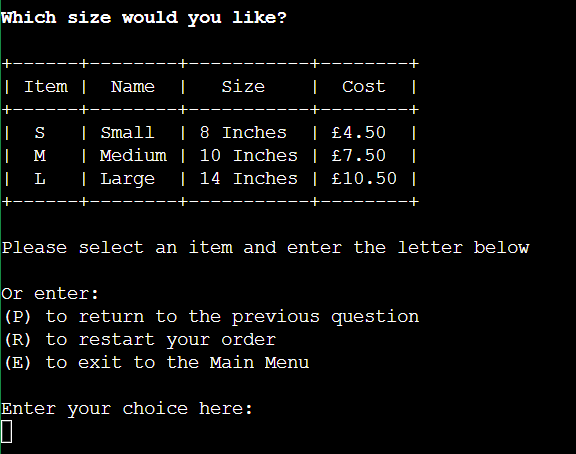
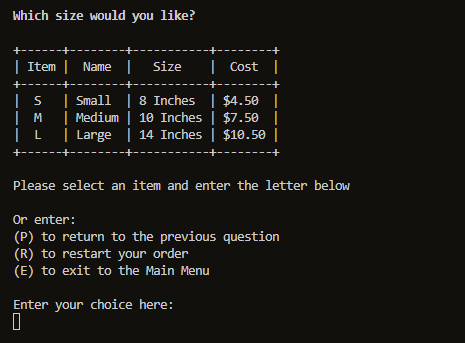
Updates to README file, small change to number within HTML Footer text, and changes to execution order of functions when customer chooses to return to a previous question

diff --git a/run.py b/run.py
@@ -50,21 +50,20 @@ def get_customer_name():
             Print statement confirming input is valid
             Name (str): used within place_order()
     """
+    console.print("What would you like to do next?\n", style="bold")
+    print("1. Continue to place your order")
+    print("2. Exit to Main Menu\n")
+    print("Please select an option by entering either 1 or 2\n")
     #  While loop to provide sub-menu options
     #  If not valid, error message asks the user to try again
     while True:
-        console.print("What would you like to do"
-                      " next?\n", style="bold")
-        print("1. Continue to place your order")
-        print("2. Exit to Main Menu\n")
-        print("Please select an option by entering either 1 or 2\n")
         selection = input("Enter your choice here:\n")
         if selection == "1":
             break
         elif selection == "2":
             main()
         else:
-            print("Invalid choice, please enter a number between 1-3")
+            print("\nInvalid choice, please enter a number between 1-3\n")
             continue
     #  If option 1, While loop to request users details
     #  If not valid, error message asks the user to try again
@@ -90,6 +89,9 @@ def get_customer_number():
             Print statement confirming input is valid
             telnum (str): used within place_order()
     """
+    print("Please provide a mobile phone number, that starts with 07"
+          " and is 11 digits\n")
+
     def validate_mobile(telnum):
         """
         Validates user contact phone number.
@@ -104,14 +106,12 @@ def get_customer_number():
     #  While loop to request user inputs valid contact phone number
     #  If not valid, error message asks the user to try again
     while True:
-        print("Please provide a mobile phone number, that starts with a zero"
-              " and is 11 digits\n")
         telnum = input("Enter your number here:\n")
         if validate_mobile(telnum):
-            print(f"Thanks, we will use {telnum} to contact you if"
+            print(f"\nThanks, we will use {telnum} to contact you if"
                   " there are any issues.\n")
         else:
-            print("Invalid number. 11 digits required, starting with 0,"
+            print("\nInvalid number. 11 digits required, starting with 0,"
                   " please try again\n")
             continue
         return telnum
@@ -236,31 +236,31 @@ def get_quantity():
         Returns:
             qty(int): used within place_order()
     """
+    console.print("How many would you like?\n", style="bold")
+    console.print("Please enter a quantity between 1-6 below\n"
+                  "\nOr enter:\n"
+                  "(P) to return to the previous question\n"
+                  "(R) to restart your order\n"
+                  "(E) to exit to the Main Menu\n")
     #  While loop to request user inputs valid quantity between 1-6
     #  Provides opportunity for the user to restart order or exit to Main Menu
     #  If not valid, error message asks the user to try again
     while True:
-        console.print("How many would you like?\n", style="bold")
-        console.print("Please enter a quantity between 1-6 below\n"
-                      "\nOr enter:\n"
-                      "(P) to return to the previous question\n"
-                      "(R) to restart your order\n"
-                      "(E) to exit to the Main Menu\n")
         qty = input("Enter your choice here:\n")
-        if qty.isnumeric() in range(1, 7, 1):
+        if qty in range(1, 6, 1):
             return int(qty)
         elif qty.upper() == "P":
-            clear()
-            get_size()
-        elif qty.upper() == "R":
             break
+        elif qty.upper() == "R":
+            place_order()
         elif qty.upper() == "E":
             main()
         else:
             print("Invalid choice, please enter a number between 1-6\n"
                   "or letters R or E\n")
             continue
-    place_order()
+    clear()
+    get_size()
 
 
 def get_cost(cust_size, qty):
@@ -275,14 +275,14 @@ def get_cost(cust_size, qty):
             f string with calculated cost and GBP symbol
             Used within place_order()
     """
-    cost = 0
+    cost = 0.00
     if cust_size == ("Small"):
         cost = qty * 4.50
     elif cust_size == ("Medium"):
         cost = qty * 7.50
     elif cust_size == ("Large"):
         cost = qty * 10.50
-    return f"{cost}"
+    return cost
 
 
 def get_time():
@@ -428,7 +428,7 @@ def place_order():
 
     #  Confirm order back to the customer and provide order reference
     console.print(f"Thanks {name.capitalize()}, you are ordering;\n"
-                  f"{qty} {cust_size} {pizza} for {cost} :pizza:\n"
+                  f"{qty} {cust_size} {pizza} for £{cost} :pizza:\n"
                   f"Your reference for the order is {order_ref}\n")
     #  While loop to request user confirms order is complete
     #  If not complete, user has options to order more items
@@ -480,7 +480,7 @@ def add_pizza():
     qty = get_quantity()
     #  Calculates and returns the cost of the order
     cost = get_cost(cust_size, qty)
-    cust_order.extend(pizza, cust_size, qty, cost)
+    cust_order(pizza, cust_size, qty, cost)
     return cust_order
 
 

diff --git a/README.md b/README.md
@@ -57,7 +57,7 @@ There are additional benefits of moving to a digitally driven ordering system; i
     * I want to understand how long it will take to cook my order, so that I can plan my journey time.
     * I want to learn which pizzas are available, so I can choose my preferred option.
     * I want to learn which sizes are available, so I can choose the appropriate size for my appetite.
-    * I want to order multiple pizzas, so I can more food to more people.
+    * I want to order multiple pizzas, so I can provide food to more people.
     * I want to be able to amend the order before committing, so that if a mistake is made I don't have to restart the order.
 * As the owner... 
     * I want to reduce the time spent on the phone and writing orders, so I can focus on executing the orders.
@@ -176,7 +176,7 @@ The colour palette signals 'Italy' to the customer, to convey the link with the 
 ### Current Features
 
 * A welcome message greets the customer
-<p align="center">
+<p align="left">
     <img src="readme-images/vv-pizza-f1-welcome-screen.png" alt="Image of welcome screen"/>
 </p
 
@@ -198,7 +198,7 @@ The colour palette signals 'Italy' to the customer, to convey the link with the 
 
 * Following a choice of pizza and size, the customer is asked how many they would like to order.
 <p align="center">
-    <img src="readme-images/vv-pizza-f4-display-sizes.png" alt="Image of the quantity question"/>
+    <img src="readme-images/vv-pizza-f5-request-qty.png" alt="Image of the quantity question"/>
 </p>
 
 * The customers choices are played back to them, asking for confirmation in order to proceed to sending the order to the kitchen.
@@ -263,7 +263,7 @@ Below are the summarised results from these tests:
 
 * **run.py** - 0 Errors / 0 Warnings
 * **layout.html** - 0 Errors / 0 Warnings
-* **index.html** - 1 Errors / 2 Warnings; relating to the absence of boiler pate <!DOCTYPE HTML> which is to expected given the structure of the website. The boiler plate code is stored within the layout.html file.
+* **index.html** - 1 Errors / 2 Warnings; relating to the absence of boiler pate ```<!DOCTYPE HTML>``` which is anticipated given the structure of the website. This dta is coded into the layout.html file along with the Head element.
 
 
 ### Browser
@@ -291,12 +291,40 @@ The homepage has been tested using the [Wave (Web Accessibility Evaluation Tool)
 
 ### Performance 
 
+Using Lighthouse performance testing within Chrome Developer Tools, the website has been tested for use on Desktop only. The website scored highly across all criteria, however some further work is required to improve the contrast of the background to foreground for Accessibility, and also potentially to use passive listeners to improve scrolling performance. Furthermore, the initial load time could be improved by eliminating render-blocking resources.
+
+Test occurred using Lighthouse within Chrome Dev Tools on 16/03/2022 with the following results:
+
 ![Lighthouse Test Results](readme-images/vv-pizza-lighthouse-results.png)
 
 
 ### User Stories
 
-The leading user stories have been tested to ensure the priority aims of the website have been delivered. Below is a summary of the stories validation.
+The leading user stories have been tested to ensure the priority aims of the website have been delivered. 
+Below is a summary of the stories validation.
+
+Reference  | Description                                                                                                                                                                                     
+---------- | ------------------------------------------------------------------------------------------------------------------------------------------------------------------------------------------------
+US01       | As a customer, I want to place an order with VV Pizzas at the first time of trying, so that I don't have to keep calling back.                                                                  
+Validation | Customers can navigate to the website and place an order online                                                                                                                                 
+US02       | As a customer, I want to understand how long it will take to cook my order, so that I can plan my journey time.                                                                                 
+Validation | Customers are advised to collect 20 minutes after they order, furthermore there is an option to 'View Live Orders' to check the order status. This is currently updated manually by the kitchen.
+US03       | As a customer, I want to learn which pizzas are available, so I can choose my preferred option.                                                                                                 
+Validation | In step 3 of placing an order, the menu highlighting which 4 pizzas are available is displayed.                                                                                                 
+US04       | As a customer, I want to learn which sizes are available, so I can choose the appropriate size for my appetite.                                                                                 
+Validation | In step 4 of placing an order, a table is displayed showing the size options and the respective cost.                                                                                           
+US05       | As a customer, I want to order multiple pizzas, so I can provide food to more people.                                                                                                           
+Validation | In step 5 of placing an order, the customer is asked to choose a quantity between 1-6.                                                                                                          
+US06       | As a customer, I want to be able to amend the order before committing, so that if a mistake is made I don't have to restart the order.                                                          
+Validation | This user story has not been deployed - several differing solutions to build this functionality have been attempted. Further time is required.                                                  
+US07       | As the owner, I want to reduce the time spent on the phone and writing orders, so I can focus on executing the orders.                                                                          
+Validation | Vera can view orders as they are received on a screen within the kitchen.                                                                                                                       
+US08       | As the owner, I want to provide an easier method of ordering pizza, so that our orders increase.                                                                                                
+Validation | Vera can communicate the website address to customers so they can use this method next time.                                                                                                    
+US09       | I want to be able to inform customers of changes to the menu daily, so I can try new toppings and improve customer satisfaction.                                                                
+Validation | Vera can update the menu daily from within the external spreadsheet - this then populates the table within the code that the customer sees.                                                     
+US10       | As the owner, I want to have data from the days orders, so that I can learn of customers trends and forecast more accurately.                                                                   
+Validation | Vera can copy the data received on the order spreadsheet and paste into a data model that performance this type of analysis.                                                                    
 
 
 ### Bugs
